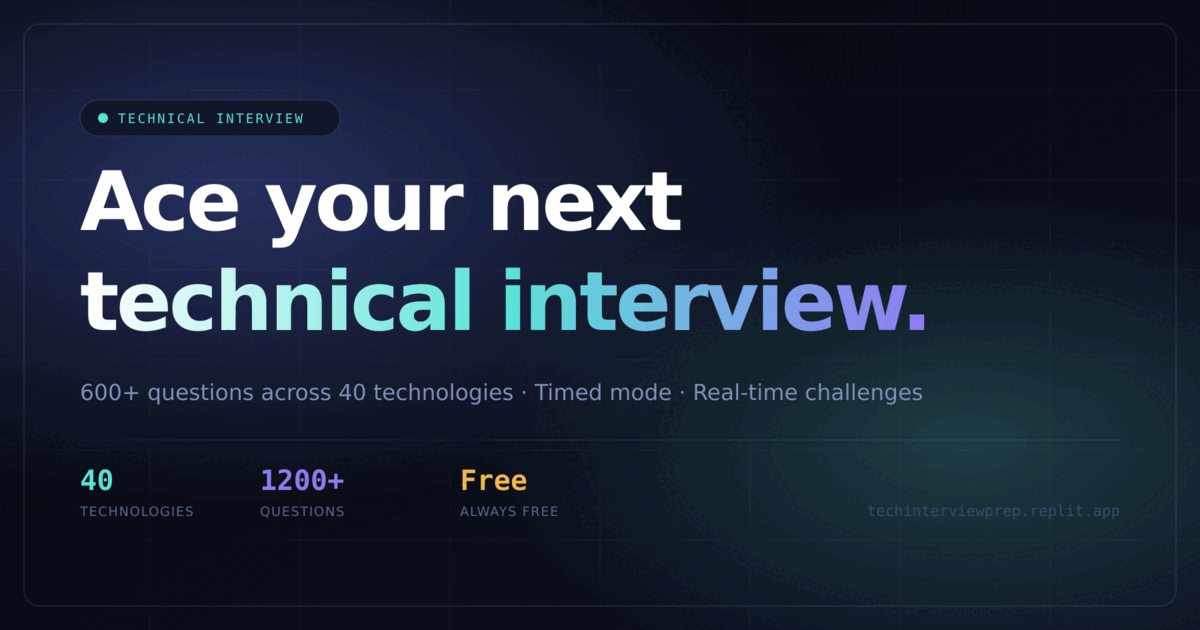
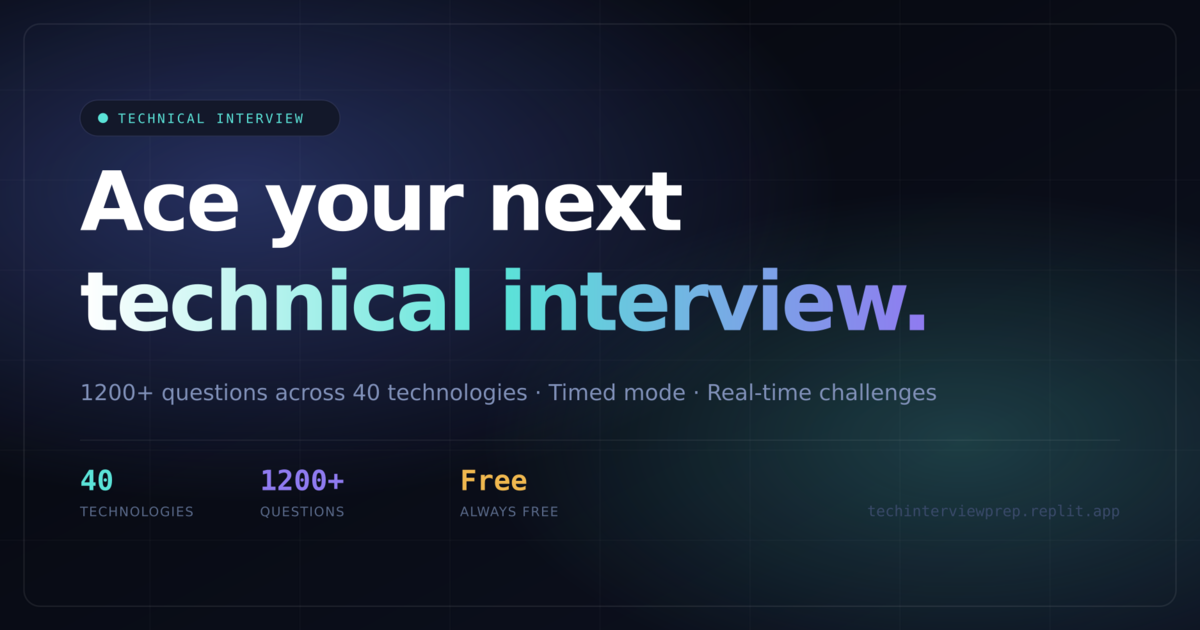
Add platform-stats.json as single source of truth; regenerate og-image.png into dist at build time; validate all static assets; fix missing @monaco-editor/react dep
Replit-Task-Id: 3dfdea54-2e88-442e-aeef-b85fae3bfc02

Changed region(s): [[0.0617, 0.6032, 0.7708, 0.6635]]

diff --git a/artifacts/it-interview-prep/src/pages/about.tsx b/artifacts/it-interview-prep/src/pages/about.tsx
@@ -4,6 +4,7 @@ import { Button } from "@/components/ui/button";
 import {
   Terminal, BookOpen, Trophy, Swords, Timer, Zap, Users, Star, CheckCircle2, Code2,
 } from "lucide-react";
+import { TOTAL_COURSES, TOTAL_QUESTIONS_DISPLAY, QUESTIONS_PER_COURSE } from "@/lib/platform-stats";
 
 const COURSES = [
   "Oracle DB", "SAP", "Java", "Python", "AWS", "Linux",
@@ -15,8 +16,8 @@ const COURSES = [
 const FEATURES = [
   {
     icon: <BookOpen size={24} />,
-    title: "1200+ Hand-Crafted Questions",
-    desc: "30 questions per course across Beginner, Intermediate, and Advanced tiers — all written by practising engineers.",
+    title: `${TOTAL_QUESTIONS_DISPLAY} Hand-Crafted Questions`,
+    desc: `${QUESTIONS_PER_COURSE} questions per course across Beginner, Intermediate, and Advanced tiers — all written by practising engineers.`,
   },
   {
     icon: <Timer size={24} />,
@@ -54,7 +55,7 @@ const BADGE_TIERS = [
 
 export default function About() {
   useEffect(() => {
-    document.title = "About TechInterviewPrep — 1200+ Questions, 40 Topics, Free";
+    document.title = `About TechInterviewPrep — ${TOTAL_QUESTIONS_DISPLAY} Questions, ${TOTAL_COURSES} Topics, Free`;
   }, []);
 
   return (
@@ -70,7 +71,7 @@ export default function About() {
         </h1>
         <p className="text-lg text-muted-foreground max-w-2xl mx-auto leading-relaxed">
           TechInterviewPrep is a free, open practice platform built by engineers for engineers. 
-          We cover 20 core technologies — from cloud infrastructure to scripting languages — 
+          We cover {TOTAL_COURSES} technologies — from cloud infrastructure to scripting languages — 
           with real questions, instant feedback, and competitive real-time challenges to keep you sharp.
         </p>
         <div className="flex flex-wrap justify-center gap-3 pt-2">
@@ -88,8 +89,8 @@ export default function About() {
       {/* Stats */}
       <section className="grid grid-cols-2 md:grid-cols-4 gap-4">
         {[
-          { value: "40", label: "Courses" },
-          { value: "1200+", label: "Questions" },
+          { value: String(TOTAL_COURSES), label: "Courses" },
+          { value: TOTAL_QUESTIONS_DISPLAY, label: "Questions" },
           { value: "3", label: "Difficulty Tiers" },
           { value: "∞", label: "Rematches" },
         ].map((s) => (
@@ -135,8 +136,8 @@ export default function About() {
 
       {/* Courses list */}
       <section>
-        <h2 className="text-3xl font-extrabold tracking-tight mb-2 text-center">All 20 Courses</h2>
-        <p className="text-muted-foreground text-center mb-8">Each course has 30 questions split evenly across Beginner, Intermediate, and Advanced.</p>
+        <h2 className="text-3xl font-extrabold tracking-tight mb-2 text-center">All {TOTAL_COURSES} Courses</h2>
+        <p className="text-muted-foreground text-center mb-8">Each course has {QUESTIONS_PER_COURSE} questions split evenly across Beginner, Intermediate, and Advanced.</p>
         <div className="flex flex-wrap gap-2 justify-center">
           {COURSES.map((c) => (
             <span key={c} className="inline-flex items-center gap-1.5 px-4 py-2 rounded-full border bg-card text-sm font-medium shadow-sm">
@@ -151,7 +152,7 @@ export default function About() {
         <h2 className="text-3xl font-extrabold tracking-tight mb-8 text-center">How It Works</h2>
         <ol className="space-y-4 max-w-2xl mx-auto">
           {[
-            ["Pick a course", "Browse 40 technologies and select the one you're practising for."],
+            ["Pick a course", `Browse ${TOTAL_COURSES} technologies and select the one you're practising for.`],
             ["Choose difficulty", "Beginner, Intermediate, or Advanced — each with 10 real questions."],
             ["Answer & learn", "Every answer reveals an instant explanation to cement the concept."],
             ["Earn your badge", "Score ≥ 50% for Bronze and aim for Platinum at 95%+."],

diff --git a/artifacts/it-interview-prep/vite-plugin-route-meta.ts b/artifacts/it-interview-prep/vite-plugin-route-meta.ts
@@ -16,6 +16,7 @@
  */
 
 import type { Plugin } from 'vite';
+import { TOTAL_COURSES, TOTAL_QUESTIONS_DISPLAY } from './src/lib/platform-stats';
 
 const BASE_URL = 'https://techinterviewprep.replit.app';
 
@@ -35,21 +36,21 @@ export const ROUTE_META: Record<string, RouteMeta> = {
   '/': {
     title: 'TechInterviewPrep — Ace Your Next Technical Interview',
     description:
-      'Master technical interviews with 1200+ hand-crafted questions across 40 technologies. Choose Docker, Python, AWS, React, Kafka, and more — with timed mode and a real-time challenge arena.',
+      `Master technical interviews with ${TOTAL_QUESTIONS_DISPLAY} hand-crafted questions across ${TOTAL_COURSES} technologies. Choose Docker, Python, AWS, React, Kafka, and more — with timed mode and a real-time challenge arena.`,
     ogTitle: 'TechInterviewPrep — Ace Your Next Technical Interview',
     ogDescription:
-      'Master technical interviews with 1200+ hand-crafted questions across 40 technologies. Timed mode, global leaderboard, and real-time head-to-head challenge arena.',
+      `Master technical interviews with ${TOTAL_QUESTIONS_DISPLAY} hand-crafted questions across ${TOTAL_COURSES} technologies. Timed mode, global leaderboard, and real-time head-to-head challenge arena.`,
     ogUrl: `${BASE_URL}/`,
     canonical: `${BASE_URL}/`,
   },
 
   '/about': {
-    title: 'About TechInterviewPrep — 1200+ Questions, 40 Technologies, Free',
+    title: `About TechInterviewPrep — ${TOTAL_QUESTIONS_DISPLAY} Questions, ${TOTAL_COURSES} Technologies, Free`,
     description:
-      'TechInterviewPrep offers 1200+ hand-crafted questions across 40 technology courses — Docker, AWS, React, Kafka, Vault, and more. Earn Bronze to Platinum badges, climb the leaderboard, and race head-to-head in real-time.',
+      `TechInterviewPrep offers ${TOTAL_QUESTIONS_DISPLAY} hand-crafted questions across ${TOTAL_COURSES} technology courses — Docker, AWS, React, Kafka, Vault, and more. Earn Bronze to Platinum badges, climb the leaderboard, and race head-to-head in real-time.`,
     ogTitle: 'About TechInterviewPrep — Free IT Interview Practice Platform',
     ogDescription:
-      '1200+ hand-crafted interview questions across 40 technologies. Timed mode, badge system, global leaderboard, and real-time challenge arena — all free.',
+      `${TOTAL_QUESTIONS_DISPLAY} hand-crafted interview questions across ${TOTAL_COURSES} technologies. Timed mode, badge system, global leaderboard, and real-time challenge arena — all free.`,
     ogUrl: `${BASE_URL}/about`,
     canonical: `${BASE_URL}/about`,
   },
@@ -57,10 +58,10 @@ export const ROUTE_META: Record<string, RouteMeta> = {
   '/leaderboard': {
     title: 'Global Leaderboard — TechInterviewPrep',
     description:
-      'See the top IT interview practice scores from engineers worldwide on TechInterviewPrep. Filter by technology, level, or timed mode. Earn Gold and Platinum badges.',
+      `See the top IT interview practice scores from engineers worldwide on TechInterviewPrep. Filter by technology, level, or timed mode. Earn Gold and Platinum badges.`,
     ogTitle: 'Global IT Interview Leaderboard — TechInterviewPrep',
     ogDescription:
-      'Top scores from engineers competing across Docker, Python, AWS, React, Kafka, and 35 other technology tracks. Climb the ranks and earn badges.',
+      `Top scores from engineers competing across Docker, Python, AWS, React, Kafka, and ${TOTAL_COURSES - 5} other technology tracks. Climb the ranks and earn badges.`,
     ogUrl: `${BASE_URL}/leaderboard`,
     canonical: `${BASE_URL}/leaderboard`,
   },

diff --git a/artifacts/it-interview-prep/index.html b/artifacts/it-interview-prep/index.html
@@ -4,6 +4,11 @@
     <meta charset="UTF-8" />
     <meta name="viewport" content="width=device-width, initial-scale=1.0" />
     <title>TechInterviewPrep — Ace Your Next Technical Interview</title>
+    <!-- PLATFORM STATS SOURCE OF TRUTH: artifacts/it-interview-prep/platform-stats.json
+         That JSON file drives all TypeScript code (via src/lib/platform-stats.ts) and the
+         post-build script (scripts/generate-route-html.mjs).  When you update the JSON,
+         also update the counts in this file (meta description, JSON-LD, and noscript copy)
+         and in public/og-image.svg and public/llms.txt.  The build script validates them. -->
     <meta name="description" content="Master technical interviews with 1200+ hand-crafted questions across 40 technologies. Choose Docker, Python, AWS, React, Kafka, and more — with timed mode and real-time challenge." />
     <meta name="robots" content="index, follow" />
     <meta property="og:title" content="TechInterviewPrep — Ace Your Next Technical Interview" />
@@ -84,7 +89,7 @@
            Timed mode, global leaderboard, and a real-time head-to-head challenge arena — all free.</p>
         <nav>
           <ul>
-            <li><a href="/">Home — Browse all 20 courses and start practicing</a></li>
+            <li><a href="/">Home — Browse all 40 courses and start practicing</a></li>
             <li><a href="/about">About — Features, badge system, and course list</a></li>
             <li><a href="/leaderboard">Global Leaderboard — Top scorers by course and difficulty</a></li>
             <li><a href="/race">Challenge Arena — Real-time head-to-head IT quiz battles</a></li>

diff --git a/artifacts/it-interview-prep/src/pages/home.tsx b/artifacts/it-interview-prep/src/pages/home.tsx
@@ -7,6 +7,7 @@ import {
   type Course,
 } from "@workspace/api-client-react";
 import { useQuizState } from "@/lib/quiz-context";
+import { TOTAL_COURSES, TOTAL_QUESTIONS_DISPLAY, DIFFICULTY_TIERS } from "@/lib/platform-stats";
 import * as SiIcons from "react-icons/si";
 import { Search, X, ArrowLeft, Timer } from "lucide-react";
 
@@ -556,9 +557,9 @@ export default function Home() {
                 style={{ display: "flex", gap: 48, flexWrap: "wrap", justifyContent: "center", marginTop: 52, animation: "cin-slideUp 0.7s ease-out 0.6s both" }}
               >
                 {[
-                  { val: "40", label: "Technologies" },
-                  { val: "1200+", label: "Questions" },
-                  { val: "4", label: "Badge Tiers" },
+                  { val: String(TOTAL_COURSES), label: "Technologies" },
+                  { val: TOTAL_QUESTIONS_DISPLAY, label: "Questions" },
+                  { val: String(DIFFICULTY_TIERS + 1), label: "Badge Tiers" },
                 ].map(({ val, label }) => (
                   <div key={label} style={{ textAlign: "center" }}>
                     <div style={{ fontFamily: "'JetBrains Mono',monospace", fontSize: 26, fontWeight: 700, background: "linear-gradient(90deg, #fff, var(--cin-cyan))", WebkitBackgroundClip: "text", WebkitTextFillColor: "transparent" }}>

diff --git a/artifacts/it-interview-prep/src/lib/platform-stats.ts b/artifacts/it-interview-prep/src/lib/platform-stats.ts
@@ -1,0 +1,27 @@
+/**
+ * Platform statistics — single source of truth for TypeScript/React code.
+ *
+ * The canonical DATA lives in platform-stats.json at the artifact root.
+ * This file re-exports typed constants from that JSON so components get
+ * type-safe access without repeating any numbers.
+ *
+ * Files that consume these stats:
+ *   src/pages/home.tsx                     — hero stats row
+ *   src/pages/about.tsx                    — about page stats grid
+ *   vite-plugin-route-meta.ts              — SEO meta descriptions
+ *
+ * Non-TS consumers read platform-stats.json directly:
+ *   scripts/generate-route-html.mjs        — post-build static HTML
+ *
+ * Static assets that embed these numbers (regenerate when they change):
+ *   public/og-image.svg                    — social sharing image
+ *   index.html                             — JSON-LD + noscript copy
+ */
+
+import stats from '../../platform-stats.json';
+
+export const TOTAL_COURSES: number             = stats.TOTAL_COURSES;
+export const TOTAL_QUESTIONS: number           = stats.TOTAL_QUESTIONS;
+export const TOTAL_QUESTIONS_DISPLAY: string   = stats.TOTAL_QUESTIONS_DISPLAY;
+export const QUESTIONS_PER_COURSE: number      = stats.QUESTIONS_PER_COURSE;
+export const DIFFICULTY_TIERS: number          = stats.DIFFICULTY_TIERS;
